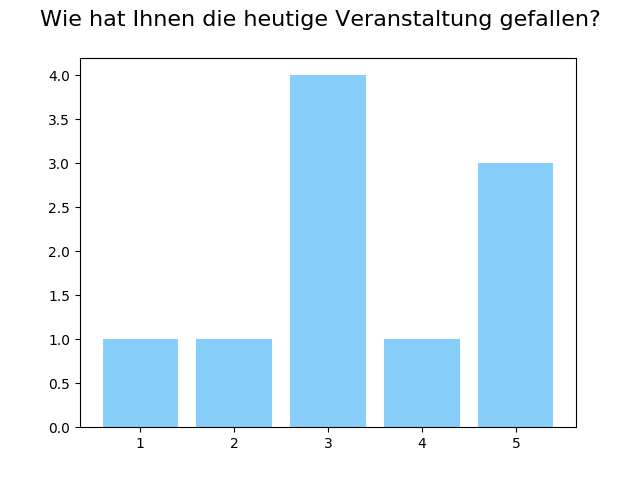
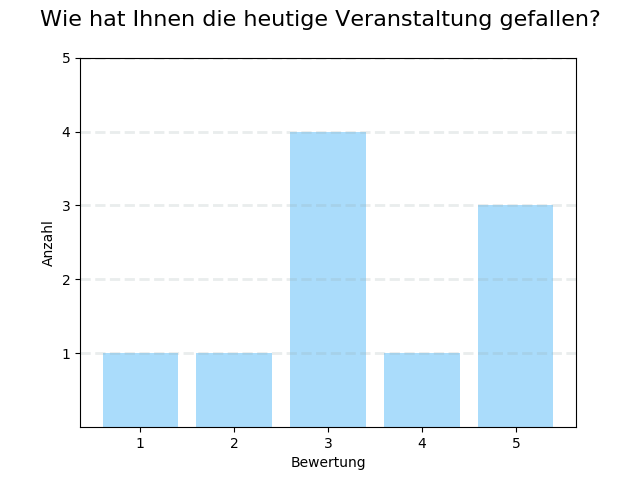
new create_bar

diff --git a/application.py b/application.py
@@ -102,7 +102,7 @@ def create_pie(q):
     FigureCanvas(fig).print_png(output)
     return Response(output.getvalue(), mimetype="image/png")
 
-
+# TODO: auslagern
 def create_bar(q):
     plt.clf()
     dirname = os.path.dirname(__file__)
@@ -112,8 +112,13 @@ def create_bar(q):
     q_data = parse_data(q)
     keys, counts = np.unique(q_data, return_counts=True)
     y_pos = np.arange(len(keys))
-    plt.bar(y_pos, counts, color="lightskyblue")
+    plt.bar(y_pos, counts, color="lightskyblue", alpha=0.7)
+    yint = range((min(counts)), (max(counts))+2)
+    plt.yticks(yint)
     plt.xticks(y_pos, keys)
+    plt.ylabel('Anzahl')
+    plt.xlabel('Bewertung')
+    plt.grid(color='#95a5a6', linestyle='--', linewidth=2, axis='y', alpha=0.2)
     fig = plt.gcf()
     #fig = create_figure(keys, counts)
     fig.suptitle(title, fontsize=16)
@@ -182,7 +187,8 @@ def result_count():
     data = load_data()
     return data["ResultCount"]
 
-parse_survey()
+create_bar("question1")
+create_pie("question2pie")
 
 if __name__ == '__main__':
     app.run(debug=True)
